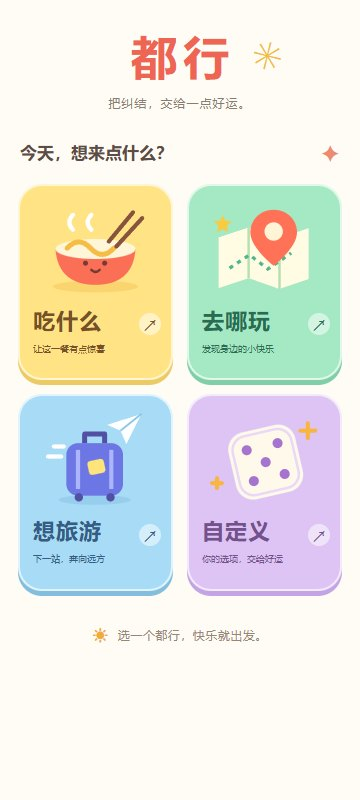
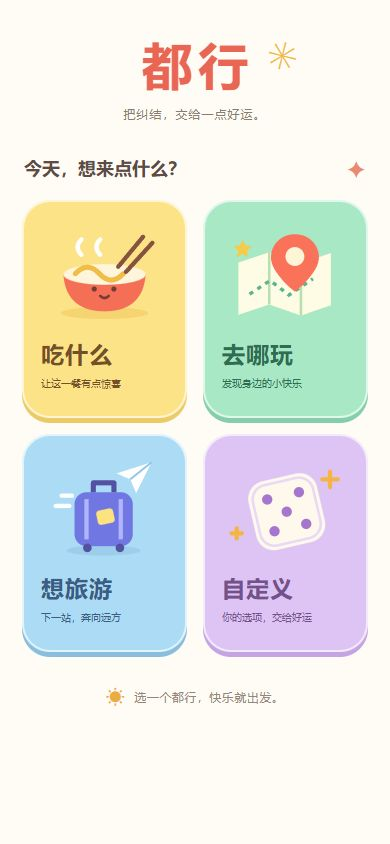
feat: add custom option wheel with AI introductions

diff --git a/app.js b/app.js
@@ -23,10 +23,10 @@ function generate(){
   state.candidates=state.page==='custom'?state.custom.slice():state.live?[]:eligible().slice(0,state.config.count);
 }
 function navigate(page){if(state.busy)return toast('这一轮还在转，请稍候');state.bg++;if(page==='near'&&state.locationMode==='multi')page='fair';if(page==='play')setActivity('play');else if(['near','fair'].includes(page))setActivity('food');state.page=page;state.stage='map';if(page!=='custom')state.searchMessage='';generate();render();window.scrollTo({top:0,behavior:'smooth'})}
-function render(){ if(typeof destroyHomeMap==='function')destroyHomeMap(); document.body.classList.toggle('is-home',state.page==='home');if(state.page==='home'){renderHome();return;} $('#nav').innerHTML=navs.map(([id,ic,t])=>`<button class="nav-item ${(id===state.page||(id==='near'&&state.page==='fair'))?'active':''}" data-page="${id}"><span>${ic}</span>${t}</button>`).join('');if(['near','fair','play','custom'].includes(state.page))renderExplore();else if(state.page==='favorites')renderFavorites();else renderVisits(); }
+function render(){ if(typeof destroyHomeMap==='function')destroyHomeMap(); document.body.classList.toggle('is-home',state.page==='home');document.body.classList.toggle('is-freewheel',state.page==='freewheel');if(state.page==='home'){renderHome();return;}if(state.page==='freewheel'){renderFreeWheel();return;} $('#nav').innerHTML=navs.map(([id,ic,t])=>`<button class="nav-item ${(id===state.page||(id==='near'&&state.page==='fair'))?'active':''}" data-page="${id}"><span>${ic}</span>${t}</button>`).join('');if(['near','fair','play','custom'].includes(state.page))renderExplore();else if(state.page==='favorites')renderFavorites();else renderVisits(); }
 const heading=(title,sub)=>`<div class="heading"><div><h1>${title}</h1><p>${sub}</p></div><span class="icon-burst" aria-hidden="true">✺</span></div>`;
 function mapHTML(){return `<div class="map" id="map" aria-label="演示地图，点击或拖动选择出发点"><svg viewBox="0 0 500 224" preserveAspectRatio="none"><rect width="500" height="224" fill="#e9efe3"/><g fill="#dce7d3"><rect x="15" y="10" width="100" height="55" rx="9"/><rect x="145" y="20" width="80" height="45" rx="8"/><rect x="20" y="95" width="110" height="75" rx="9"/><rect x="280" y="40" width="75" height="70" rx="10"/><rect x="300" y="152" width="135" height="65" rx="9"/><rect x="135" y="170" width="100" height="55" rx="10"/></g><path d="M380 -30 Q300 80 420 170 T460 270" stroke="#bbdadd" stroke-width="38" fill="none"/><g stroke="#fffdf6" stroke-width="13" fill="none"><path d="M-10 80 L510 132 M240 -10 L250 240 M-10 200 L510 175 M115 -10 L150 240"/></g><g fill="#a8bea0"><circle cx="60" cy="120" r="8"/><circle cx="80" cy="145" r="10"/><circle cx="320" cy="75" r="10"/><circle cx="340" cy="95" r="7"/></g><text x="35" y="45" fill="#9bac91" font-size="10">榕树街区</text><text x="310" y="196" fill="#9bac91" font-size="10">沿河公园</text></svg><span class="map-shop" style="left:30%;top:40%">🥘 巷口小馆</span><span class="map-shop" style="left:59%;top:65%">🍝 洋食小街</span><span class="pin" style="left:${state.origin.x}%;top:${state.origin.y}%"></span><span class="map-note">示意地图 · 点击或拖拽选点</span></div>`}
-function settings(){const c=state.config,play=isPlay(),types=typeList();return `${state.page==='fair'?'':`<div class="form-row"><div class="row-label">怎么去？</div><div class="chips">${['步行','公共交通','驾车'].map(t=>`<button class="chip ${c.mode===t?'on':''}" data-mode="${t}">${t==='步行'?'🚶':t==='公共交通'?'🚇':'🚗'} ${t}</button>`).join('')}</div></div><p class="muted">公交 / 地铁包含接驳步行；无公交方案时核对步行路线。</p><div class="form-row"><div class="row-label">最多花多久？</div><div class="chips">${[10,15,20,30,45,60].map(n=>`<button class="chip ${c.limit===n?'hot':''}" data-limit="${n}">${n} 分钟</button>`).join('')}</div></div>`}<div class="form-row"><div class="row-label">${play?'想玩哪一类？':'想吃哪一口？'}<span>可多选</span></div><div class="chips">${types.map(t=>`<button class="chip ${(t==='不限'?!c.types.length:c.types.includes(t))?'on':''}" data-type="${t}">${t}</button>`).join('')}</div></div><div class="select-row"><label>人均预算<select id="budget">${[0,50,100,150,200].map(n=>`<option value="${n}" ${n===c.budget?'selected':''}>${n?'¥'+n+' 以内':'都行，不限'}</option>`).join('')}</select></label><label>候选数量<select id="count">${[4,6,8,10].map(n=>`<option ${n===c.count?'selected':''}>${n}</option>`).join('')}</select></label></div>${play?'':`<details class="fold"><summary>营业与信息缺失设置</summary><div class="switches"><label><input id="open" type="checkbox" ${c.open?'checked':''}>预计到店时营业</label><label><input id="unknownPrice" type="checkbox" ${c.unknownPrice?'checked':''}>允许价格未知</label><label><input id="unknownHours" type="checkbox" ${c.unknownHours?'checked':''}>允许营业时间未知</label></div><p class="muted">${state.live?'高德未提供可可靠判断到店营业的时段，严格营业筛选会排除未知店铺。':'演示按本机当前时间与样例营业时段判断。'}</p></details>`}<button class="btn full" id="applyFilters">就按这些选 ✨</button>`}
+function settings(){const c=state.config,play=isPlay(),types=typeList();return `${state.page==='fair'?'':`<div class="form-row"><div class="row-label">怎么去？</div><div class="chips">${['步行','公共交通','驾车'].map(t=>`<button class="chip ${c.mode===t?'on':''}" data-mode="${t}">${t==='步行'?'🚶':t==='公共交通'?'🚇':'🚗'} ${t}</button>`).join('')}</div></div><p class="muted">公交 / 地铁包含接驳步行；无公交方案时核对步行路线。</p><div class="form-row"><div class="row-label">最多花多久？</div><div class="chips">${[10,15,20,30,45,60].map(n=>`<button class="chip ${c.limit===n?'hot':''}" data-limit="${n}">${n} 分钟</button>`).join('')}</div></div>`}<div class="form-row"><div class="row-label">${play?'想玩哪一类？':'想吃哪一口？'}<span>可多选</span></div><div class="chips">${types.map(t=>`<button class="chip ${(t==='不限'?!c.types.length:c.types.includes(t))?'on':''}" data-type="${t}">${t}</button>`).join('')}</div></div><div class="select-row"><label>人均预算<select id="budget">${[0,50,100,150,200].map(n=>`<option value="${n}" ${n===c.budget?'selected':''}>${n?'¥'+n+' 以内':'不限'}</option>`).join('')}</select></label><label>候选数量<select id="count">${[4,6,8,10].map(n=>`<option ${n===c.count?'selected':''}>${n}</option>`).join('')}</select></label></div>${play?'':`<details class="fold"><summary>营业与信息缺失设置</summary><div class="switches"><label><input id="open" type="checkbox" ${c.open?'checked':''}>预计到店时营业</label><label><input id="unknownPrice" type="checkbox" ${c.unknownPrice?'checked':''}>允许价格未知</label><label><input id="unknownHours" type="checkbox" ${c.unknownHours?'checked':''}>允许营业时间未知</label></div><p class="muted">${state.live?'高德未提供可可靠判断到店营业的时段，严格营业筛选会排除未知店铺。':'演示按本机当前时间与样例营业时段判断。'}</p></details>`}<button class="btn full" id="applyFilters">就按这些选 ✨</button>`}
 function renderExplore(){
   if(state.page!=='custom')return renderDiscovery();
   const custom=true,c=state.config,play=isPlay();
@@ -154,7 +154,7 @@ function renderVisits(){const tab=state.visitTab||'food',play=tab==='play';const
 function share(){state.bg++;let s=state.last,play=s.activity==='play',c=document.createElement('canvas');c.width=800;c.height=950;let x=c.getContext('2d');x.fillStyle='#fcf8eb';x.fillRect(0,0,800,950);x.fillStyle='#ee4f45';x.fillRect(40,40,720,12);x.font='bold 44px Microsoft YaHei';x.fillText(play?'都行 · 今天就玩这个':'都行 · 今天就吃这家',65,120);x.fillStyle=s.color||'#e2e9d8';x.fillRect(65,170,670,300);x.font='150px Segoe UI Emoji';x.textAlign='center';x.fillText(s.emoji||'🍽',400,385);x.textAlign='left';x.fillStyle='#304538';x.font='bold 38px Microsoft YaHei';x.fillText(s.name.slice(0,16),65,555);x.font='23px Microsoft YaHei';x.fillText(s.type||'自定义选项',65,615);x.fillText(s.price==null?'人均未知':(s.source==='amap'?'参考人均 ¥':'演示人均 ¥')+s.price,65,662);x.font='20px Microsoft YaHei';x.fillText(s.address||'未关联门店',65,720);x.fillStyle='#8c927e';x.font='18px Microsoft YaHei';x.fillText(s.source==='amap'?(play?'高德场馆资料 · 图片为示意图':'高德商户资料 · 图片为餐饮示意插画'):(play?'演示场馆与插画 · 非真实场所资料':'演示商户与餐饮插画 · 非真实餐厅资料'),65,810);x.fillText(today()+' 生成 · 请以前往时的信息为准',65,850);let url=c.toDataURL('image/png');showModal(modalTop('把今天的答案分享出去')+`<img class="share-preview" src="${url}" alt="分享卡片预览"><p class="muted" style="margin:12px 0">不包含私人出发点或个人用餐反馈。</p><a class="btn full" href="${url}" download="都行-分享卡片.png">保存分享卡片</a>`)}
 function addCustom(s){if(!s)return toast('没有找到这个选项');const target=s.activity==='play'?'play':'food';if(state.activity!==target)setActivity(target);const list=state.custom;if(list.length>=20)return toast('最多添加 20 项');if(list.some(x=>x.id===s.id||x.name===s.name))return toast('已经在自选候选里了');list.push({...s});state.page='custom';state.stage='map';state.searchMessage='';generate();render();openCustom();toast('已加入自选转盘')}
 $('#nav').onclick=e=>{let b=e.target.closest('[data-page]');if(b)navigate(b.dataset.page)};
-document.addEventListener('click',e=>{let b=e.target.closest('button');if(!b)return;let d=b.dataset;if(state.busy)return; if(d.customActivity){setActivity(d.customActivity);state.page='custom';state.stage='map';state.searchMessage='';generate();render();return}if(d.visitTab){state.visitTab=d.visitTab;render();return} if(handleHomeAction(b)||handleDiscoveryAction(b)||handleCompactAction(b))return; if(d.close!==undefined){$('#modal').close();return}if(d.type){state.config.types=d.type==='不限'?[]:state.config.types.includes(d.type)?state.config.types.filter(t=>t!==d.type):[...state.config.types,d.type];generate();render();openFilters();return}if(d.mode){state.config.mode=d.mode;generate();render();openFilters();return}if(d.limit){state.config.limit=+d.limit;generate();render();openFilters();return}if(d.fav){favorite(d.fav);return}if(d.detail){let s=state.candidates.find(x=>x.id===d.detail)||find(d.detail);if(s)detail(s);return}if(d.exclude){state.excluded.add(d.exclude);render();openCandidates();return}if(d.removePerson){state.people.splice(+d.removePerson,1);state.activeOrigin=Math.min(state.activeOrigin,state.people.length-1);generate();render();openPeople();return}if(d.deleteCustom){state.custom=state.custom.filter(s=>s.id!==d.deleteCustom);generate();render();openCustom();return}if(d.rename){let s=state.custom.find(s=>s.id===d.rename),name=prompt('修改显示名称（不改变门店身份）',s.name);if(name?.trim()){if(s.source==='amap')s.poiName=s.poiName||s.name;s.name=name.trim().slice(0,40);generate();render();openCustom()}return}if(d.addFavorite){addCustom(find(d.addFavorite));return}if(d.editVisit){let v=state.visits.find(v=>v.id===d.editVisit);recordForm(find(v.storeId)||{id:v.storeId,name:v.name,activity:v.activity||'food'},v);return}if(d.deleteVisit){if(confirm('删除这条记录？')){let next=state.visits.filter(v=>v.id!==d.deleteVisit);if(save('visits',next)){state.visits=next;render()}}return}if(d.adjust){state.bg++;let key=d.adjust,opts=key==='limit'?[10,15,20,30,45,60]:key==='budget'?[0,50,100,150,200]:typeList().filter(t=>t!=='不限');showModal(modalTop('调整条件')+`<p class="muted">${state.page==='custom'?'自定义模式将校验已关联门店，不会补入附近餐厅。':'其余条件和本轮排除记录会保留。'}</p><div class="chips" style="margin-top:20px">${opts.map(o=>`<button class="chip" data-apply="${key}" data-value="${o}">${o||'不限'}${key==='limit'?' 分钟':key==='budget'&&o?' 元':''}</button>`).join('')}</div>`);return}if(d.apply){if(d.apply==='type')state.config.types=d.value==='不限'?[]:[d.value];else state.config[d.apply]=+d.value;if(state.page==='fair'&&d.apply==='limit')state.people.forEach(p=>p.limit=+d.value);if(state.page==='custom'){validateCustom();return;}generate();$('#modal').close();render();if(state.live)refreshCandidates();return}
+document.addEventListener('click',e=>{let b=e.target.closest('button');if(!b)return;let d=b.dataset;if(state.busy)return; if(d.customActivity){setActivity(d.customActivity);state.page='custom';state.stage='map';state.searchMessage='';generate();render();return}if(d.visitTab){state.visitTab=d.visitTab;render();return} if(handleFreeWheelAction(b)||handleHomeAction(b)||handleDiscoveryAction(b)||handleCompactAction(b))return; if(d.close!==undefined){$('#modal').close();return}if(d.type){state.config.types=d.type==='不限'?[]:state.config.types.includes(d.type)?state.config.types.filter(t=>t!==d.type):[...state.config.types,d.type];generate();render();openFilters();return}if(d.mode){state.config.mode=d.mode;generate();render();openFilters();return}if(d.limit){state.config.limit=+d.limit;generate();render();openFilters();return}if(d.fav){favorite(d.fav);return}if(d.detail){let s=state.candidates.find(x=>x.id===d.detail)||find(d.detail);if(s)detail(s);return}if(d.exclude){state.excluded.add(d.exclude);render();openCandidates();return}if(d.removePerson){state.people.splice(+d.removePerson,1);state.activeOrigin=Math.min(state.activeOrigin,state.people.length-1);generate();render();openPeople();return}if(d.deleteCustom){state.custom=state.custom.filter(s=>s.id!==d.deleteCustom);generate();render();openCustom();return}if(d.rename){let s=state.custom.find(s=>s.id===d.rename),name=prompt('修改显示名称（不改变门店身份）',s.name);if(name?.trim()){if(s.source==='amap')s.poiName=s.poiName||s.name;s.name=name.trim().slice(0,40);generate();render();openCustom()}return}if(d.addFavorite){addCustom(find(d.addFavorite));return}if(d.editVisit){let v=state.visits.find(v=>v.id===d.editVisit);recordForm(find(v.storeId)||{id:v.storeId,name:v.name,activity:v.activity||'food'},v);return}if(d.deleteVisit){if(confirm('删除这条记录？')){let next=state.visits.filter(v=>v.id!==d.deleteVisit);if(save('visits',next)){state.visits=next;render()}}return}if(d.adjust){state.bg++;let key=d.adjust,opts=key==='limit'?[10,15,20,30,45,60]:key==='budget'?[0,50,100,150,200]:typeList().filter(t=>t!=='不限');showModal(modalTop('调整条件')+`<p class="muted">${state.page==='custom'?'自定义模式将校验已关联门店，不会补入附近餐厅。':'其余条件和本轮排除记录会保留。'}</p><div class="chips" style="margin-top:20px">${opts.map(o=>`<button class="chip" data-apply="${key}" data-value="${o}">${o||'不限'}${key==='limit'?' 分钟':key==='budget'&&o?' 元':''}</button>`).join('')}</div>`);return}if(d.apply){if(d.apply==='type')state.config.types=d.value==='不限'?[]:[d.value];else state.config[d.apply]=+d.value;if(state.page==='fair'&&d.apply==='limit')state.people.forEach(p=>p.limit=+d.value);if(state.page==='custom'){validateCustom();return;}generate();$('#modal').close();render();if(state.live)refreshCandidates();return}
 switch(b.id){case 'spin':spin();break;case 'retryAI':retryAI();break;case 'refreshStoreRoute':refreshStoreRoute();break;case 'generate':generate();render();document.querySelector('.wheel-panel').scrollIntoView({behavior:'smooth',block:'start'});toast('候选已更新 · 演示数据');break;case 'refresh':if(state.page==='custom')openCustom();else refreshCandidates();break;case 'reset':state.drawn.clear();state.excluded.clear();refreshCandidates();toast('新一轮已准备好');break;case 'searchPlace':{let q=$('#placeSearch').value.trim(),p=places.find(p=>p.name.includes(q)&&q);if(!p)return toast('演示地点：榕树广场、花园地铁站、沿河公园、大学城南门');state.origin={...p};generate();render();break}case 'locate':toast('演示版使用榕树广场，不采集实际位置');state.origin={...places[0]};generate();render();break;case 'addPerson':if(state.people.length<6){state.people.push({username:'用户'+(state.people.length+1),color:personColors.find(color=>!state.people.some(p=>p.color===color))||personColors[0],place:state.people.length%4,mode:'步行',limit:30});generate();render();openPeople()}break;case 'addCustom':{let name=$('#customName').value.trim();if(!name)return toast(isPlay()?'先写下一个场馆名':'先写下一个餐厅名');addCustom({id:'custom-'+crypto.randomUUID(),name,manual:true,type:'自定义',emoji:isPlay()?'🎡':'🍽',activity:isPlay()?'play':'food'});break}case 'customValidate':state.candidates=state.custom.filter(s=>!s.manual&&s.source!=='amap').map(s=>Doux.evaluate(s,{...state.config,types:[]},people())).filter(s=>s.eligible);render();toast('仅保留通过路程与预算校验的已关联'+(isPlay()?'场馆':'门店'));break;case 'again':$('#modal').close();if(['favorites','visits'].includes(state.page))navigate('near');if(state.live&&!available().length&&state.page!=='custom')refreshCandidates();else spin();break;case 'reject':state.excluded.add(state.last.id);$('#modal').close();render();toast('本轮已排除这家');break;case 'record':recordForm(state.last);break;case 'share':share();break;case 'route':if(state.last.source==='amap'){openRealRoute(state.last);break;}showModal(modalTop('出发路线 · 演示')+`<div class="intro-box">${esc(state.last.name)}<br>${esc(state.last.address)}</div><p class="muted">这里展示交互流程，不提供真实导航。${state.page==='fair'?'选择一位参与者查看模拟路线。':''}</p><div class="section-list" style="margin-top:15px">${people().map((p,i)=>`<div class="list-row"><div class="grow"><b>${state.page==='fair'?String.fromCharCode(65+i):'你'} · ${p.mode}</b><p>${esc(p.name)} → ${esc(state.last.name)}</p></div><strong>约 ${Doux.duration(state.last,p)} 分钟</strong></div>`).join('')}</div>`);break;case 'newVisit':{const playTab=state.visitTab==='play';const base=[...Object.values(state.catalog),...(state.live?[]:(playTab?Doux.playStores:Doux.stores)),...state.favorites];const pool=[...new Map(base.map(s=>[s.id,s])).values()].filter(s=>(s.activity==='play')===playTab);showModal(modalTop(playTab?'选择实际到过的场馆':'选择实际到过的餐厅')+`<select id="recordPick" class="full"><option value="">${playTab?'请选择场馆':'请选择餐厅'}</option>${pool.map(s=>`<option value="${s.id}">${s.name}</option>`).join('')}</select>`);break}case 'clearVisits':{const tab=state.visitTab||'food',label=tab==='play'?'游玩记录':'到店记录';if(confirm('清空全部'+label+'？收藏不会删除。')){const next=state.visits.filter(v=>(v.activity||'food')!==tab);if(save('visits',next)){state.visits=next;render()}}break}case 'help':showModal(modalTop('你好，这里是「都行」')+'<div class="detail-copy">这是可交互的离线原型。<br>① 选择起点、时间和菜系，生成候选。<br>② 开始转盘，先整理中奖店再展示。<br>③ 体验收藏、分享卡片与到店 / 游玩记录；自选与足迹页可切换美食 / 游玩。<br>④ 试试公平集合点或自定义转盘；主页「去哪玩」是看电影、密室逃脱、剧本杀等场馆转盘。<br><br>餐厅、地图、路线、评分与 AI 检索均为演示。收藏和到店记录仅保存在当前浏览器。清除站点数据会删除这些记录。</div>');break;}
 });
 document.addEventListener('change',e=>{let t=e.target;if(t.dataset.person!==undefined){let p=state.people[+t.dataset.person],key=t.dataset.key;p[key]=key==='username'?(t.value.trim().slice(0,20)||'用户'+(+t.dataset.person+1)):key==='mode'?t.value:+t.value;if(key==='username'){if(+t.dataset.person===0)state.username=p[key];return;}if(key==='place')delete p.demoOrigin;generate();render();openPeople();return}if(['budget','count','open','unknownPrice','unknownHours'].includes(t.id)){state.config[t.id]=t.type==='checkbox'?t.checked:+t.value;generate();render()}if(t.id==='noRepeat'){state.repeat=!t.checked;render()}if(t.id==='pickStore'&&t.value)addCustom(find(t.value));if(t.id==='recordPick'&&t.value)recordForm(find(t.value));});
@@ -175,13 +175,14 @@ function homeIllustration(kind){
 }
 function renderHome(){
   const entries=[['food','吃什么','让这一餐有点惊喜'],['play','去哪玩','发现身边的小快乐'],['travel','想旅游','下一站，奔向远方'],['custom','自定义','你的选项，交给好运']];
-  $('#view').innerHTML=`<section class="home-hub"><header class="hub-header"><span class="hub-flower" aria-hidden="true">✳</span><h1>都行</h1><p>把纠结，交给一点好运。</p></header><div class="hub-intro"><h2>今天，想来点什么？</h2><span aria-hidden="true">✦</span></div><div class="hub-grid">${entries.map(([id,title,description])=>`<button class="hub-card hub-${id}" data-feature="${id}" aria-label="${title}"><span class="hub-art">${homeIllustration(id)}</span><strong>${title}</strong><span class="hub-description">${description}</span><span class="hub-arrow" aria-hidden="true">↗</span></button>`).join('')}</div><p class="hub-footer"><span aria-hidden="true">☀</span> 选一个都行，快乐就出发。</p></section>`;
+  $('#view').innerHTML=`<section class="home-hub"><header class="hub-header"><span class="hub-flower" aria-hidden="true">✳</span><h1>都行</h1><p>把纠结，交给一点好运。</p></header><div class="hub-intro"><h2>今天，想来点什么？</h2><span aria-hidden="true">✦</span></div><div class="hub-grid">${entries.map(([id,title,description])=>`<button class="hub-card hub-${id}" data-feature="${id}" aria-label="${title}"><span class="hub-art">${homeIllustration(id)}</span><strong>${title}</strong><span class="hub-description">${description}</span></button>`).join('')}</div><p class="hub-footer"><span aria-hidden="true">☀</span> 选一个都行，快乐就出发。</p></section>`;
 }
 function handleHomeAction(button){
   if(button.id==='backHome'){navigate('home');return true;}
   if(!button.dataset.feature)return false;
   if(button.dataset.feature==='food')navigate('near');
   else if(button.dataset.feature==='play')navigate('play');
+  else if(button.dataset.feature==='custom')navigate('freewheel');
   else showModal(modalTop('该功能暂未开放')+'<div class="coming-soon"><span aria-hidden="true">✿</span><p>新的快乐正在准备中，<br>先去看看今天吃什么吧。</p><button class="btn full" data-close>知道啦</button></div>');
   return true;
 }

diff --git a/freewheel.js b/freewheel.js
@@ -1,0 +1,70 @@
+'use strict';
+// Independent of the food/play lists: arbitrary options have no map constraints.
+const freeWheel={items:[],stage:'edit',round:0,last:null,info:null,busy:false};
+function renderFreeWheel(){
+  document.body.classList.add('is-freewheel');
+  $('#nav').innerHTML='';
+  if(freeWheel.stage==='edit'){
+    $('#view').innerHTML=heading('你的选项，随心转。','吃的、玩的、想做的事，都可以放进来。')+`<section class="free-editor"><span class="free-dice" aria-hidden="true">⚄</span><h2>今天纠结什么？</h2><form id="freeOptionForm" class="search-line"><input id="freeOptionName" aria-label="候选项" placeholder="例如：露营、看电影、逛书店" maxlength="80" autocomplete="off"><button class="btn small" type="submit">添加</button></form><p class="muted">2～20 个选项，抽中机会都一样。</p><ul class="free-list">${freeWheel.items.map((s,i)=>`<li><span class="free-number">${i+1}</span><span>${esc(s.name)}</span><button data-free-remove="${s.id}" aria-label="移除${esc(s.name)}">×</button></li>`).join('')||'<li class="free-empty">把第一个小纠结放进来吧 ✨</li>'}</ul></section><button id="freeReady" class="btn full sheet-note" ${freeWheel.items.length<2?'disabled':''}>生成我的转盘 · ${freeWheel.items.length} 项</button>`;
+  }else{
+    $('#view').innerHTML=`<div class="step-nav"><button id="freeEdit">‹ 编辑候选</button><span>随心转一转</span></div>`+heading('答案，就在下一转。','开始后揭晓一个选项，顺便了解它。')+`<section class="panel wheel-panel"><div class="wheel-header"><h3>我的自定义转盘</h3><span class="muted">${freeWheel.items.length} 个选项</span></div><div class="wheel-wrap"><div class="pointer"></div><div class="wheel-rim"><div class="wheel-disc" id="freeDisc">${wheelSVG(freeWheel.items)}</div></div><div class="hub">好运<small>交给这一转</small></div></div><div class="wheel-actions"><button id="freeSpin" class="btn full">开始转盘 ✦</button><p class="wheel-status" id="freeStatus" role="status">每个选项都有同样的机会</p></div></section>`;
+  }
+}
+async function researchFreeOption(winner,round){
+  freeWheel.info={status:'loading'};
+  try{
+    const response=await fetch('/api/option-research',{method:'POST',headers:{'Content-Type':'application/json'},body:JSON.stringify({name:winner.name}),signal:AbortSignal.timeout(25000)});
+    const data=await response.json();
+    if(!response.ok)throw new Error(data.error||'暂时未能获取介绍，请重试');
+    if(!['ready','empty'].includes(data.status))throw new Error('资料响应无效，请重试');
+    if(round===freeWheel.round)freeWheel.info=data;
+  }catch(error){if(round===freeWheel.round)freeWheel.info={status:'error',error:error.name==='TimeoutError'?'资料检索超时，请重试':error.message};}
+  if(round===freeWheel.round&&$('#freeKnowledge'))$('#freeKnowledge').innerHTML=freeKnowledge();
+}
+function freeKnowledge(){
+  const info=freeWheel.info;
+  if(!info||info.status==='loading')return '<p role="status">正在检索这个选项的资料，稍后就好…</p>';
+  if(info.status==='ready')return `<p>${esc(info.introduction)}</p><details><summary>查看资料来源</summary><p class="muted">AI 根据搜索摘要整理，资料可能不完整。</p>${(info.evidence||[]).map(s=>`<a href="${esc(s.url)}" target="_blank" rel="noopener noreferrer">${esc(s.title||'查看来源')} ↗</a>`).join('')}</details>`;
+  return `<p>${esc(info.status==='error'?info.error:'暂未找到与这个选项匹配的可靠介绍。可以补充更具体的候选名称后再试。')}</p><button id="freeRetry" class="btn secondary small">重新检索</button>`;
+}
+function showFreeResult(){
+  showModal(modalTop('这次，就选它！')+`<div class="free-result"><span aria-hidden="true">✦</span><h2>${esc(freeWheel.last.name)}</h2></div><section class="free-knowledge"><h3>你可能想知道</h3><div id="freeKnowledge">${freeKnowledge()}</div></section><div class="actions sheet-note"><button id="freeAgain" class="btn full">再转一次</button><button class="btn outline full" data-close>收下这个答案</button></div>`);
+}
+async function spinFreeWheel(){
+  if(freeWheel.busy||freeWheel.items.length<2)return;
+  const list=freeWheel.items, index=Math.floor(Math.random()*list.length),winner=list[index],round=++freeWheel.round;
+  freeWheel.last=winner;freeWheel.busy=true;state.busy=true;
+  document.querySelectorAll('#view button').forEach(b=>b.disabled=true);
+  $('#freeStatus').textContent='好运转动中，也在了解这个选项…';
+  const disc=$('#freeDisc'),reduced=matchMedia('(prefers-reduced-motion: reduce)').matches;
+  const animation=reduced?null:disc.animate([{transform:'rotate(0deg)'},{transform:'rotate(360deg)'}],{duration:650,iterations:Infinity});
+  const task=researchFreeOption(winner,round);
+  let timer;
+  await Promise.all([wait(reduced?0:1800),Promise.race([task,new Promise(resolve=>timer=setTimeout(resolve,10000))])]);clearTimeout(timer);
+  const matrix=new DOMMatrix(getComputedStyle(disc).transform),angle=Math.atan2(matrix.b,matrix.a)*180/Math.PI;
+  animation?.cancel();disc.style.transform=`rotate(${angle}deg)`;disc.getBoundingClientRect();
+  disc.style.transition=reduced?'none':'transform 950ms cubic-bezier(.16,.7,.15,1)';
+  disc.style.transform=`rotate(${360*3-(index+.5)*360/list.length}deg)`;
+  await wait(reduced?0:950);
+  freeWheel.busy=false;state.busy=false;render();showFreeResult();
+}
+function handleFreeWheelAction(button){
+  document.body.classList.toggle('is-freewheel',state.page==='freewheel');
+  if(button.dataset.freeRemove){freeWheel.items=freeWheel.items.filter(s=>s.id!==button.dataset.freeRemove);render();return true;}
+  switch(button.id){
+    case 'freeReady':freeWheel.stage='wheel';render();return true;
+    case 'freeEdit':freeWheel.stage='edit';render();return true;
+    case 'freeSpin':spinFreeWheel();return true;
+    case 'freeAgain':$('#modal').close();spinFreeWheel();return true;
+    case 'freeRetry':researchFreeOption(freeWheel.last,freeWheel.round);$('#freeKnowledge').innerHTML=freeKnowledge();return true;
+    default:return false;
+  }
+}
+document.addEventListener('submit',event=>{
+  if(event.target.id!=='freeOptionForm')return;
+  event.preventDefault();const input=$('#freeOptionName'),name=input.value.trim();
+  if(!name)return toast('先写下一个选项');
+  if(freeWheel.items.length>=20)return toast('最多添加 20 个选项');
+  if(freeWheel.items.some(s=>s.name===name))return toast('这个选项已经加过啦');
+  freeWheel.items.push({id:crypto.randomUUID(),name});render();$('#freeOptionName').focus();
+});

diff --git a/index.html b/index.html
@@ -1,5 +1,5 @@
 <!doctype html>
 <html lang="zh-CN"><head><meta charset="utf-8"><meta name="viewport" content="width=device-width,initial-scale=1,viewport-fit=cover"><meta name="theme-color" content="#ee4f45"><title>都行 · 把纠结交给好运</title><link rel="stylesheet" href="style.css"></head>
-<body class="is-home"><header class="topbar"><button id="backHome" class="home-back" aria-label="返回主界面">‹</button><a class="brand" href="#"><span class="brand-mark">都</span><b>都行<span>把纠结，交给一点运气。</span></b></a><button class="demo-label" id="mapSetup"><i></i> 演示模式</button><button class="quiet" id="help">?</button></header>
+<body class="is-home"><header class="topbar"><button id="backHome" class="home-back" aria-label="返回主界面">‹</button><a class="brand" href="#"><span class="brand-mark">都</span><b>都行<span>把纠结，交给一点运气。</span></b></a><button class="quiet" id="help">?</button></header>
 <div class="shell"><aside class="sidebar"><div class="side-note">今天的快乐，从吃饭开始</div><nav id="nav"></nav><div class="side-footer"><span class="tiny-wheel">✳</span><strong>嘴上说都行，<br>吃饭可要认真。</strong><p>没有标准答案，<br>只有下一顿的期待。</p><small>都行 / 食物决定小助手</small></div></aside><main><div id="view"></div></main></div>
-<dialog id="modal"><div id="modal-content"></div></dialog><div id="toast" role="status" aria-live="polite"></div><script src="core.js"></script><script src="amap-client.js"></script><script src="ai-client.js"></script><script src="app.js"></script><script src="discovery.js"></script><script src="map-ui.js"></script></body></html>
+<dialog id="modal"><div id="modal-content"></div></dialog><div id="toast" role="status" aria-live="polite"></div><script src="core.js"></script><script src="amap-client.js"></script><script src="ai-client.js"></script><script src="app.js"></script><script src="freewheel.js"></script><script src="discovery.js"></script><script src="map-ui.js"></script></body></html>

diff --git a/style.css b/style.css
@@ -173,3 +173,5 @@ dialog{max-height:90vh;max-height:90dvh}
 @media(prefers-reduced-motion:reduce){.pointer{animation:none}}
 
 .result-stats .stat{min-width:0}.result-stats .stat-note{font-size:13px;line-height:1.6;overflow-wrap:anywhere}.result-stats>#refreshStoreRoute{grid-column:1/-1;justify-self:end;font-size:12px}
+/* Arbitrary choices use a separate, lightweight editor. */
+.is-freewheel .sidebar{display:none}.is-freewheel main{padding-bottom:30px}.free-editor{padding:20px 16px;background:#f0e6ff;border:2px solid #e3d3f9;border-radius:28px}.free-dice{display:block;font-size:48px;text-align:center;color:#986ac5}.free-editor h2{text-align:center;font-size:20px;margin:4px 0 18px}.free-editor input{width:100%;min-width:0}.free-list{padding:0;list-style:none;display:grid;gap:9px;margin:18px 0 0}.free-list li{display:flex;align-items:center;gap:10px;background:#fffafc;padding:10px 12px;border-radius:18px;overflow-wrap:anywhere}.free-list li>span:nth-child(2){flex:1;min-width:0}.free-list button{font-size:22px;min-width:36px;min-height:36px;color:#977eaa}.free-number{display:grid;place-items:center;background:#ffe795;color:#92703c;width:27px;height:27px;border-radius:50%;flex-shrink:0;font-size:12px}.free-empty{font-size:12px;color:#8b7899;justify-content:center;min-height:60px}.free-result{text-align:center;padding:8px 0 22px}.free-result>span{font-size:45px;color:#f1bc3f}.free-result h2{overflow-wrap:anywhere;font-size:26px;margin-top:8px}.free-knowledge{background:#fff3cb;padding:18px;border-radius:22px}.free-knowledge h3{margin-bottom:10px;color:#876830}.free-knowledge p{font-size:13px;line-height:1.9;overflow-wrap:anywhere}.free-knowledge details{margin-top:12px;font-size:12px}.free-knowledge summary{cursor:pointer;min-height:32px}.free-knowledge a{display:block;color:#7851a2;text-decoration:underline;overflow-wrap:anywhere;margin:8px 0}.free-knowledge .btn{margin-top:12px}

diff --git a/map-ui.js b/map-ui.js
@@ -229,7 +229,7 @@ function handleCompactAction(button){
   }
   return true;
 }
-function updateSource(){document.querySelector('.demo-label').innerHTML='<i></i> '+(state.live?'高德模式':'演示模式');}
+function updateSource(){const label=document.querySelector('.demo-label');if(label)label.innerHTML='<i></i> '+(state.live?'高德模式':'演示模式');}
 document.addEventListener('keydown',event=>{if(event.key==='Enter'&&event.target.id==='mapSearch'){event.preventDefault();searchMap();}});
 $('#modal').addEventListener('close',()=>{if(!$('#modal').open)disposeMap();});
 generate();render();

diff --git a/README.md b/README.md
@@ -14,7 +14,7 @@
 
 ## 主界面
 
-打开后展示「都行」主界面，四张彩色插画卡片分别为「吃什么」「去哪玩」「想旅游」「自定义」。「吃什么」进入美食地图，「去哪玩」进入娱乐场馆地图（底部导航在两者间切换）；「想旅游」「自定义」点击后弹出「该功能暂未开放」。页面左上角返回按钮可回到主界面。美食模块内原有「自选」功能扩展为「美食 / 游玩」双模式，与主页尚未开放的通用「自定义」入口区分；「足迹」页同样按美食 / 游玩切换显示记录。
+打开后展示「都行」主界面，四张彩色插画卡片分别为「吃什么」「去哪玩」「想旅游」「自定义」。「吃什么」进入美食地图，「去哪玩」进入娱乐场馆地图（底部导航在两者间切换）；「想旅游」点击后弹出「该功能暂未开放」，「自定义」进入通用候选转盘。页面左上角返回按钮可回到主界面。美食模块内原有「自选」功能扩展为「美食 / 游玩」双模式，与主页的通用「自定义」入口区分；「足迹」页同样按美食 / 游玩切换显示记录。
 
 ## 高德地图
 
@@ -64,3 +64,11 @@
 美食、游玩及对应自选模式的真实门店结果，会在原有中奖店检索中同步生成一段约 50～100 字的解读。美食侧重有来源的菜系、菜品与用餐特色，游玩侧重场馆、活动与体验特色；资料仍来自同一次搜索，不增加独立模型请求，也不改变等概率抽取和中奖店优先时序。
 
 生成段落标记为“AI 解读”，引用入口沿用下方资料来源。当前已核实的路程及参考人均与预算关系由页面附加，不把个人出发点、路线坐标或偏好传给模型。路程刷新后，这些事实同步更新。生成失败、分店匹配不可靠或资料不足时提供明确说明；纯文字项与演示候选继续使用基础说明。
+
+## 通用自定义转盘
+
+主页「自定义」支持添加、移除 2～20 个任意文字选项，生成转盘后点击开始。选项彼此等概率，与美食 / 游玩的自选列表独立，不受地图、路程与预算约束。候选保留在当前页面会话，刷新后清空。
+
+点击开始立即锁定中奖项，并在动画期间通过 `/api/option-research` 调用现有 DeepSeek 搜索与整理服务，只发送中奖名称。弹窗展示中奖项与「你可能想知道」简要介绍，可展开来源或再次抽取。动画等待检索最多约 10 秒再减速；慢请求继续补充结果，失败、空资料和未配置密钥有明确提示及重试入口。服务端复用 15 分钟缓存、来源证据校验和跨站保护。仍使用本机 `.env` 中的 DeepSeek 配置。
+
+主界面四卡片去掉箭头，预算零档显示「不限」，顶栏移除高德 / 演示模式按钮；原有地图设置入口保留。

diff --git a/验证记录.md b/验证记录.md
@@ -173,3 +173,11 @@
 - 理由段落在资料返回、重试和路线刷新后更新；无可靠引用时不展示生成理由，生成内容转义后显示。
 - 34 项针对性测试通过，覆盖生成字段、活动模式缓存隔离、无证据降级、文本转义、当前路程更新及既有中奖优先时序。
 - 两个真实接口样本（广州酒家文昌总店 / 广州塔）均约 4 秒返回非空解读与来源；浏览器实测中奖结果卡片显示“为什么选它 · AI 解读”及完整段落。样本验证不代表所有门店资料覆盖。
+
+## 通用自定义转盘与界面精简（2026-11-03）
+
+- 四卡片箭头已移除（DOM 数量为 0）；预算实际选项显示「不限」；美食界面顶栏无高德模式按钮。
+- 实测从主页进入自定义，添加广州塔、故宫博物院、西湖，生成转盘并开始，抽中西湖。真实 DeepSeek 搜索与整理返回介绍，结果下方显示「你可能想知道」，展开后可见人民日报、央视等搜索来源链接。
+- 390px 结果弹窗与 360px 候选编辑页实际渲染正常；360px document.scrollWidth = 360。从自定义返回主页、进入美食地图正常。
+- `node --test ai-test.cjs` 13 项通过；新增测试覆盖通用接口名称校验、检索与生成、来源、缓存及不传其他候选 / 出发点。JS 语法与 diff 检查通过。
+- 截图：`screenshots/custom-editor.jpg`、`screenshots/custom-result.jpg`，主页截图已更新。
